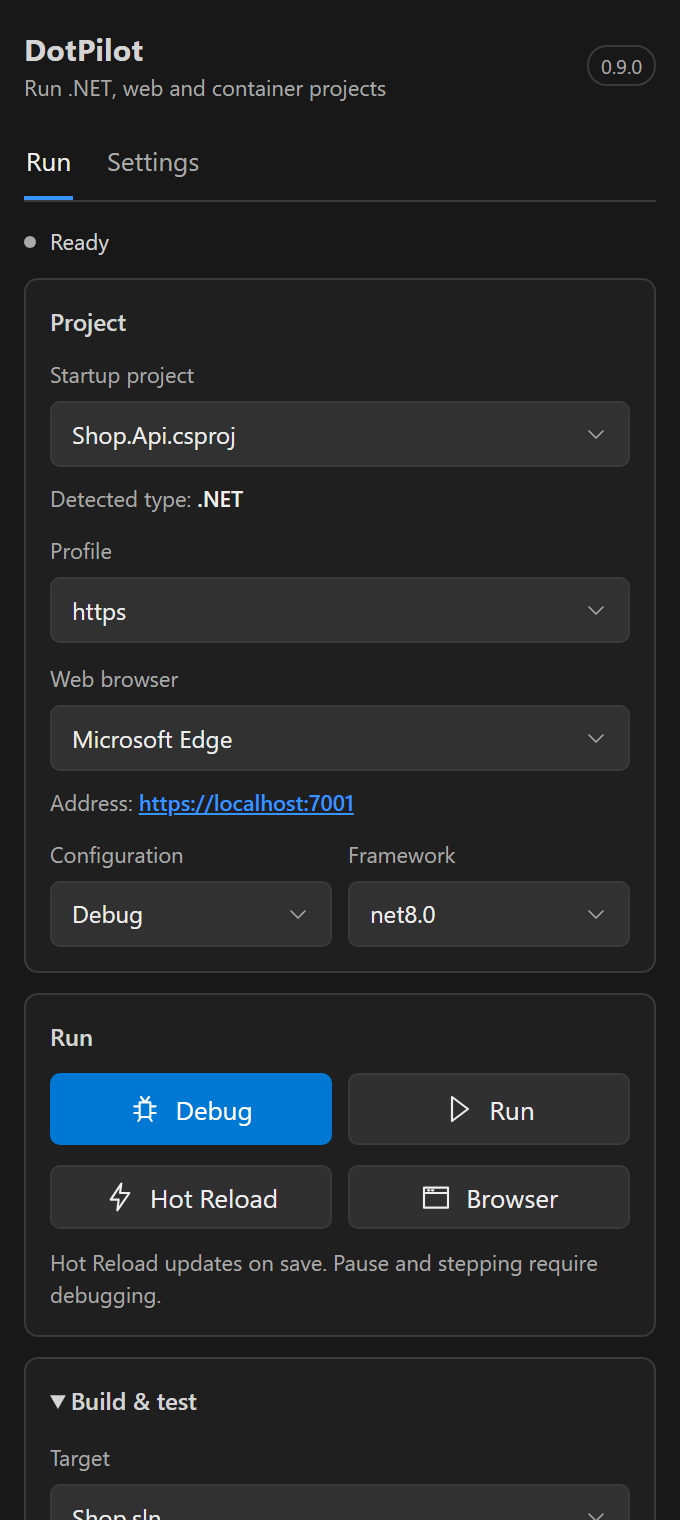
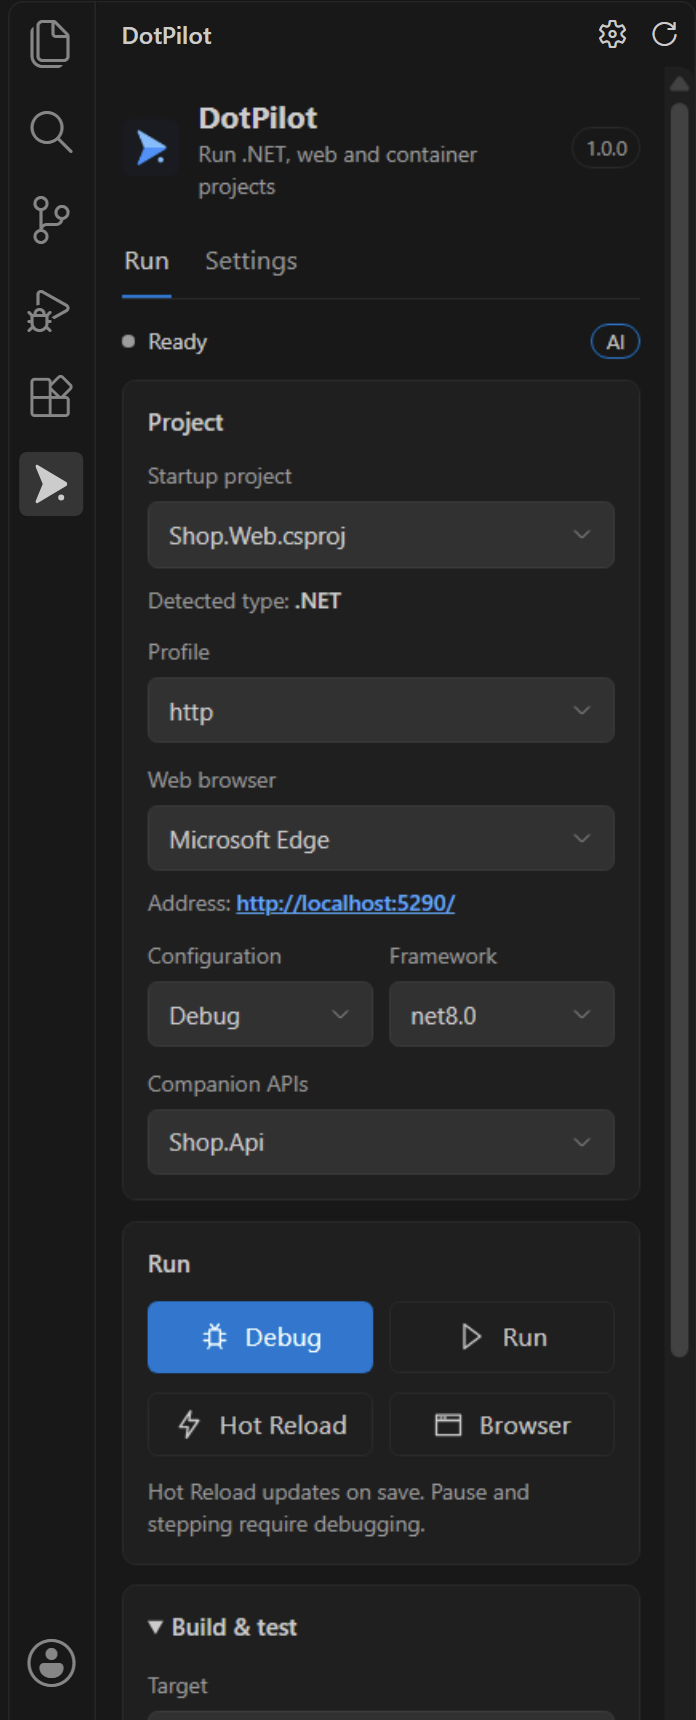
Refresh README screenshots and add the editor toolbar
- Panel screenshots regenerated at the same size (1.0.0 UI, Activity Bar
  icon, companion APIs, AI badge), plus the settings tab.
- New toolbar screenshots: idle, debugging (Pause/Stop) and the open menu.
- test-integration/screenshots.js reproduces them with a real VS Code,
  sample projects and the remote debugging protocol.

diff --git a/test-integration/screenshots.js b/test-integration/screenshots.js
@@ -1,0 +1,237 @@
+'use strict';
+// Genera las capturas de media/screenshots con un VS Code real y proyectos de ejemplo.
+//
+//   node test-integration/screenshots.js
+//
+// Requiere haber corrido antes `npm run test:integration` (deja en caché las extensiones de C#) y el SDK de .NET.
+// Variables: DOTPILOT_VSCODE (ruta de Code.exe), DOTPILOT_SHOTS_OUT (carpeta de salida), DOTPILOT_KEEP=1.
+const fs = require('node:fs');
+const os = require('node:os');
+const path = require('node:path');
+const { runTests } = require('@vscode/test-electron');
+
+const root = path.resolve(__dirname, '..');
+const OUT = process.env.DOTPILOT_SHOTS_OUT || path.join(root, 'media', 'screenshots');
+const PORT = 9333;
+const VIEWPORT = { width: 1280, height: 960 };
+const SCALE = 2;
+const PANEL_HEIGHT = 860;
+const TALL = { width: 1280, height: 1500 };
+
+// Estas variables las pone el VS Code desde el que se lanza este script y rompen un VS Code hijo.
+for (const key of Object.keys(process.env)) {
+  if (key === 'ELECTRON_RUN_AS_NODE' || key.startsWith('VSCODE_')) delete process.env[key];
+}
+
+const write = (file, text) => { fs.mkdirSync(path.dirname(file), { recursive: true }); fs.writeFileSync(file, text); };
+
+function buildWorkspace(workspace, laragon) {
+  const project = (name, port, extra = '') => {
+    write(path.join(workspace, name, `${name}.csproj`), '<Project Sdk="Microsoft.NET.Sdk.Web">\n  <PropertyGroup>\n    <TargetFramework>net8.0</TargetFramework>\n    <Nullable>enable</Nullable>\n    <ImplicitUsings>enable</ImplicitUsings>\n  </PropertyGroup>\n</Project>\n');
+    write(path.join(workspace, name, 'Properties', 'launchSettings.json'), JSON.stringify({ profiles: { http: {
+      commandName: 'Project', launchBrowser: false, applicationUrl: `http://localhost:${port}`, environmentVariables: { ASPNETCORE_ENVIRONMENT: 'Development' }
+    } } }, null, 2));
+    write(path.join(workspace, name, 'Program.cs'), extra);
+  };
+  project('Shop.Api', 5291, ['var builder = WebApplication.CreateBuilder(args);', 'var app = builder.Build();', '', 'app.MapGet("/api/products", () => new[] { "Keyboard", "Mouse" });', '', 'app.Run();', ''].join('\n'));
+  project('Shop.Web', 5290, ['var builder = WebApplication.CreateBuilder(args);', 'var app = builder.Build();', '', 'app.MapGet("/", () => "Shop.Web (uses Shop.Api on :5291)");', '', 'app.Run();', ''].join('\n'));
+  write(path.join(workspace, 'Shop.Web', 'appsettings.json'), JSON.stringify({ ApiBaseUrl: 'http://localhost:5291' }, null, 2));
+
+  write(path.join(workspace, 'web-client', 'package.json'), JSON.stringify({
+    name: 'web-client', private: true, scripts: { dev: 'node server.js' },
+    dependencies: { react: '^18.3.0', 'react-dom': '^18.3.0' }, devDependencies: { vite: '^5.4.0' }
+  }, null, 2));
+  write(path.join(workspace, 'web-client', 'server.js'), [
+    "const http = require('node:http');",
+    "http.createServer((req, res) => res.end('web-client')).listen(5173, '127.0.0.1', () => {",
+    "  console.log('  VITE v5.4.0  ready');",
+    "  console.log('  Local:   http://localhost:5173/');",
+    '});', ''].join('\n'));
+
+  write(path.join(workspace, 'shop', 'index.php'), '<?php echo "Shop";\n');
+  write(path.join(workspace, 'shop', 'composer.json'), JSON.stringify({ name: 'acme/shop' }, null, 2));
+
+  // Laragon de mentira: solo lo que DotPilot lee para ofrecer el perfil Apache (no se inicia nada).
+  const apache = path.join(laragon, 'bin', 'apache', 'httpd-2.4.0-test');
+  for (const dir of [path.join(apache, 'bin'), path.join(apache, 'conf'), path.join(laragon, 'usr'), path.join(laragon, 'etc', 'apache2', 'sites-enabled')]) fs.mkdirSync(dir, { recursive: true });
+  write(path.join(laragon, 'laragon.exe'), '');
+  write(path.join(apache, 'bin', 'httpd.exe'), '');
+  write(path.join(apache, 'conf', 'httpd.conf'), 'Listen 80\nErrorLog "logs/error_log"\n');
+  write(path.join(laragon, 'usr', 'laragon.ini'), `[apache]\nDocumentRoot=${workspace}\n`);
+
+  write(path.join(workspace, '.vscode', 'settings.json'), JSON.stringify({ 'dotpilot.openBrowser': false, 'dotpilot.laragonPath': laragon }, null, 2));
+}
+
+// Cliente mínimo del protocolo de depuración remota de Chromium.
+async function connect(port) {
+  let target;
+  for (let attempt = 0; attempt < 120 && !target; attempt++) {
+    try {
+      const list = await (await fetch(`http://127.0.0.1:${port}/json/list`)).json();
+      target = list.find(item => item.type === 'page' && /workbench/.test(item.url));
+    } catch { /* VS Code aún no abre el puerto */ }
+    if (!target) await new Promise(resolve => setTimeout(resolve, 500));
+  }
+  if (!target) throw new Error('No se pudo conectar a la ventana de VS Code (puerto de depuración remota).');
+  const socket = new WebSocket(target.webSocketDebuggerUrl);
+  await new Promise((resolve, reject) => { socket.onopen = resolve; socket.onerror = reject; });
+  let id = 0;
+  const pending = new Map();
+  socket.onmessage = event => {
+    const message = JSON.parse(event.data);
+    const entry = pending.get(message.id);
+    if (!entry) return;
+    pending.delete(message.id);
+    if (message.error) entry.reject(new Error(`${entry.method}: ${message.error.message}`)); else entry.resolve(message.result);
+  };
+  const send = (method, params = {}) => new Promise((resolve, reject) => {
+    pending.set(++id, { resolve, reject, method });
+    socket.send(JSON.stringify({ id, method, params }));
+  });
+  const evaluate = async expression => {
+    const { result, exceptionDetails } = await send('Runtime.evaluate', { expression, returnByValue: true });
+    if (exceptionDetails) throw new Error(exceptionDetails.exception?.description || exceptionDetails.text);
+    return result.value;
+  };
+  return { send, evaluate, close: () => socket.close() };
+}
+
+const RECT = selector => `(() => { const el = document.querySelector(${JSON.stringify(selector)}); if (!el) return null; const r = el.getBoundingClientRect(); return { x: r.x, y: r.y, width: r.width, height: r.height }; })()`;
+
+async function shoot(cdp, name, rect) {
+  const pad = Math.max(0, Math.round(rect.x * 100) / 100);
+  const { data } = await cdp.send('Page.captureScreenshot', { format: 'png', clip: { x: pad, y: rect.y, width: rect.width, height: rect.height, scale: 1 } });
+  const file = path.join(OUT, `${name}.png`);
+  fs.mkdirSync(OUT, { recursive: true });
+  fs.writeFileSync(file, Buffer.from(data, 'base64'));
+  console.log(`  ${name}.png  ${Math.round(rect.width * SCALE)}×${Math.round(rect.height * SCALE)}`);
+}
+
+async function titleActions(cdp) {
+  const rect = await cdp.evaluate(`(() => {
+    const groups = [...document.querySelectorAll('.part.editor .editor-group-container .title .editor-actions')].filter(el => el.getBoundingClientRect().width > 0);
+    const el = groups[0]; if (!el) return null;
+    const r = el.getBoundingClientRect();
+    const items = [...el.querySelectorAll('a.action-label')];
+    const own = items.find(item => /dotpilot/i.test((item.getAttribute('aria-label') || '') + (item.title || '')));
+    const o = own ? own.getBoundingClientRect() : null;
+    const bar = el.closest('.title').getBoundingClientRect();
+    return { x: r.x, y: r.y, width: r.width, height: r.height, barTop: bar.y, barHeight: bar.height, own: o && { x: o.x + o.width / 2, y: o.y + o.height / 2 } };
+  })()`);
+  if (!rect) throw new Error('No se encontró la barra de acciones del editor.');
+  return rect;
+}
+
+// Aparta el puntero para que no quede ningún resaltado ni descripción emergente en la captura.
+async function parkMouse(cdp) {
+  await cdp.send('Input.dispatchMouseEvent', { type: 'mouseMoved', x: 640, y: 500 });
+  await new Promise(resolve => setTimeout(resolve, 700));
+}
+
+const handlers = {
+  async 'panel-settings'(cdp) {
+    await cdp.send('Emulation.setDeviceMetricsOverride', { ...TALL, deviceScaleFactor: SCALE, mobile: false });
+    await new Promise(resolve => setTimeout(resolve, 900));
+    const side = await cdp.evaluate(RECT('.part.sidebar'));
+    const activity = await cdp.evaluate(RECT('.part.activitybar'));
+    const title = await cdp.evaluate(RECT('.part.titlebar'));
+    const top = title ? title.y + title.height : 0;
+    await shoot(cdp, 'panel-settings', { x: 0, y: top, width: side.x + side.width + (activity ? 0 : 0), height: 1180 });
+    await cdp.send('Emulation.setDeviceMetricsOverride', { ...VIEWPORT, deviceScaleFactor: SCALE, mobile: false });
+  },
+  async 'panel-dotnet'(cdp, layout) { await shoot(cdp, 'panel-dotnet', layout.panel); },
+  async 'panel-node'(cdp, layout) { await shoot(cdp, 'panel-node', layout.panel); },
+  async 'panel-apache'(cdp, layout) { await shoot(cdp, 'panel-apache', layout.panel); },
+  async 'toolbar-idle'(cdp) {
+    await parkMouse(cdp);
+    const bar = await titleActions(cdp);
+    await shoot(cdp, 'toolbar-idle', { x: bar.x - 8, y: bar.barTop, width: bar.width + 16, height: bar.barHeight });
+  },
+  async 'toolbar-running'(cdp) {
+    await parkMouse(cdp);
+    const bar = await titleActions(cdp);
+    await shoot(cdp, 'toolbar-running', { x: bar.x - 8, y: bar.barTop, width: bar.width + 16, height: bar.barHeight });
+  },
+  async 'toolbar-menu'(cdp) {
+    await parkMouse(cdp);
+    const bar = await titleActions(cdp);
+    if (!bar.own) throw new Error('No se encontró el botón de DotPilot en la barra del editor.');
+    for (const type of ['mousePressed', 'mouseReleased']) await cdp.send('Input.dispatchMouseEvent', { type, x: bar.own.x, y: bar.own.y, button: 'left', clickCount: 1 });
+    await new Promise(resolve => setTimeout(resolve, 700));
+    const menu = await cdp.evaluate(RECT('.monaco-menu-container .monaco-menu'));
+    if (!menu) throw new Error('El menú de DotPilot no se abrió.');
+    const left = Math.min(bar.x, menu.x) - 10, right = Math.max(bar.x + bar.width, menu.x + menu.width) + 10;
+    await shoot(cdp, 'toolbar-menu', { x: left, y: bar.barTop, width: right - left, height: menu.y + menu.height - bar.barTop + 10 });
+    for (const type of ['keyDown', 'keyUp']) await cdp.send('Input.dispatchKeyEvent', { type, key: 'Escape', code: 'Escape', windowsVirtualKeyCode: 27 });
+  }
+};
+
+async function panelRect(cdp) {
+  const [activity, side, title] = await Promise.all([RECT('.part.activitybar'), RECT('.part.sidebar'), RECT('.part.titlebar')].map(expression => cdp.evaluate(expression)));
+  if (!activity || !side) throw new Error('No se encontró la barra de actividad o la barra lateral.');
+  const top = title ? title.y + title.height : 0;
+  return { x: 0, y: top, width: side.x + side.width, height: Math.min(PANEL_HEIGHT, VIEWPORT.height - top) };
+}
+
+async function main() {
+  const cache = path.join(os.tmpdir(), 'dotpilot-it-cache', 'csharp', 'extensions');
+  if (!fs.existsSync(cache)) console.warn('Aviso: no hay extensiones en caché (corre npm run test:integration una vez); se continúa sin C#.');
+  const code = process.env.DOTPILOT_VSCODE || [path.join(process.env.LOCALAPPDATA || '', 'Programs', 'Microsoft VS Code', 'Code.exe'), 'C:\\Program Files\\Microsoft VS Code\\Code.exe'].find(fs.existsSync);
+  if (!code) throw new Error('No se encontró VS Code. Define DOTPILOT_VSCODE con la ruta de Code.exe.');
+
+  const work = fs.mkdtempSync(path.join(os.tmpdir(), 'dotpilot-shots-'));
+  const workspace = path.join(work, 'workspace');
+  const laragon = path.join(work, 'laragon');
+  const userData = path.join(work, 'user-data');
+  const marks = path.join(work, 'marks');
+  fs.mkdirSync(marks, { recursive: true });
+  buildWorkspace(workspace, laragon);
+  write(path.join(userData, 'User', 'settings.json'), JSON.stringify({
+    'telemetry.telemetryLevel': 'off', 'update.mode': 'none', 'extensions.autoUpdate': false, 'extensions.ignoreRecommendations': true,
+    'workbench.startupEditor': 'none', 'window.restoreWindows': 'none', 'security.workspace.trust.enabled': false,
+    'workbench.tips.enabled': false, 'workbench.secondarySideBar.defaultVisibility': 'hidden', 'chat.disableAIFeatures': true,
+    'window.commandCenter': false, 'workbench.layoutControl.enabled': false, 'editor.minimap.enabled': false,
+    'workbench.colorTheme': 'Default Dark Modern', 'dotpilot.assistantsEnabled': true, 'dotpilot.showEditorToolbar': true
+  }, null, 2));
+
+  console.log('Generando capturas en', OUT);
+  const finished = runTests({
+    vscodeExecutablePath: code,
+    extensionDevelopmentPath: root,
+    extensionTestsPath: path.join(__dirname, 'screenshots-suite.js'),
+    launchArgs: [workspace, `--user-data-dir=${userData}`, ...(fs.existsSync(cache) ? [`--extensions-dir=${cache}`] : []), '--disable-gpu', `--remote-debugging-port=${PORT}`],
+    extensionTestsEnv: { DOTPILOT_HOME: path.join(work, 'dotpilot-home'), DOTPILOT_SHOTS_DIR: marks, DOTPILOT_SHOTS_WORKSPACE: workspace }
+  }).catch(error => ({ error }));
+
+  let failure;
+  try {
+    const cdp = await connect(PORT);
+    await cdp.send('Emulation.setDeviceMetricsOverride', { ...VIEWPORT, deviceScaleFactor: SCALE, mobile: false });
+    const seen = new Set();
+    let over = false;
+    finished.then(() => { over = true; });
+    while (!over) {
+      for (const file of fs.readdirSync(marks).filter(name => name.endsWith('.ready'))) {
+        const name = file.slice(0, -'.ready'.length);
+        if (seen.has(name)) continue;
+        seen.add(name);
+        if (name !== 'end') {
+          if (!handlers[name]) throw new Error(`Escena desconocida: ${name}`);
+          await handlers[name](cdp, { panel: await panelRect(cdp) });
+        }
+        write(path.join(marks, `${name}.done`), '');
+      }
+      if (seen.has('end')) break;
+      await new Promise(resolve => setTimeout(resolve, 200));
+    }
+    cdp.close();
+  } catch (error) { failure = error; }
+  const result = await finished;
+  if (!process.env.DOTPILOT_KEEP) { try { fs.rmSync(work, { recursive: true, force: true, maxRetries: 6, retryDelay: 500 }); } catch { /* cortesía */ } }
+  else console.log('Carpeta temporal conservada:', work);
+  if (failure) throw failure;
+  if (result && result.error) throw result.error;
+  console.log('Listo.');
+}
+
+main().catch(error => { console.error(error); process.exit(1); });

diff --git a/test-integration/screenshots-suite.js b/test-integration/screenshots-suite.js
@@ -1,0 +1,88 @@
+'use strict';
+// Parte de screenshots.js que corre DENTRO de VS Code: prepara cada escena y espera a que el lanzador
+// (que habla con la ventana por el protocolo de depuración remota) tome la captura.
+const fs = require('node:fs');
+const path = require('node:path');
+const vscode = require('vscode');
+const { getController, waitFor, portOpen, sleep } = require('./suite/helpers');
+
+const dir = process.env.DOTPILOT_SHOTS_DIR;
+const workspace = process.env.DOTPILOT_SHOTS_WORKSPACE;
+const at = (...parts) => path.join(workspace, ...parts);
+
+// Avisa al lanzador y espera su `.done`: la captura se toma mientras esta escena está en pantalla.
+async function scene(name) {
+  await sleep(900);
+  fs.writeFileSync(path.join(dir, `${name}.ready`), '');
+  await waitFor(() => fs.existsSync(path.join(dir, `${name}.done`)), { timeout: 60000, message: `la captura "${name}"` });
+}
+
+async function showPanel(controller) {
+  await vscode.commands.executeCommand('workbench.view.extension.dotpilot');
+  await waitFor(() => controller.webviewReady && controller.view?.visible, { timeout: 30000, message: 'que el panel esté visible' });
+  controller.lastViewState = undefined;
+  controller.render();
+}
+
+async function run() {
+  const controller = await getController();
+  await sleep(2500);
+  const same = (left, right) => path.normalize(left).toLowerCase() === path.normalize(right).toLowerCase();
+  const find = file => controller.projects.find(uri => same(uri.fsPath, at(...file.split('/'))));
+  await waitFor(() => controller.projects.length >= 2 && controller.apps.length >= 2, { timeout: 60000, message: 'que se detecten los proyectos' });
+  await vscode.commands.executeCommand('workbench.action.closePanel');
+  await vscode.commands.executeCommand('workbench.action.closeAuxiliaryBar');
+  // Con un editor abierto aparece la barra de acciones del editor.
+  const document = await vscode.workspace.openTextDocument(at('Shop.Web', 'Program.cs'));
+  await vscode.window.showTextDocument(document, { preview: false });
+
+  // 1) Proyecto .NET con su API complementaria, en reposo.
+  const web = find('Shop.Web/Shop.Web.csproj');
+  const api = find('Shop.Api/Shop.Api.csproj');
+  await controller.applyProject(web, undefined);
+  await controller.applyProfile('http');
+  await controller.saveCompanions([{ project: api.fsPath, profile: 'http' }]);
+  controller.selectedFramework = 'net8.0';
+  await showPanel(controller);
+  await scene('panel-dotnet');
+  await scene('toolbar-idle');
+  await scene('toolbar-menu');
+
+  // 2) Depurando: la API corre sin depurador y la barra de acciones muestra Pausar y Detener.
+  if (vscode.extensions.getExtension('ms-dotnettools.csharp')) {
+    await vscode.commands.executeCommand('dotpilot.debug');
+    await waitFor(async () => controller.session && await portOpen(5291) && await portOpen(5290), { timeout: 150000, message: 'que la API y el sitio estén en marcha' });
+  } else {
+    await vscode.commands.executeCommand('dotpilot.run');
+    await waitFor(async () => await portOpen(5291) && await portOpen(5290), { timeout: 150000, message: 'que la API y el sitio estén en marcha' });
+  }
+  await scene('toolbar-running');
+  await vscode.commands.executeCommand('dotpilot.stop');
+  await waitFor(() => !controller.active() && !controller.busy, { timeout: 30000, message: 'que termine la ejecución' });
+
+  // 3) Node.js (React + Vite) en ejecución.
+  const node = controller.apps.find(app => app.kind === 'node');
+  await controller.applyProject(node.uri, node);
+  await sleep(1500);
+  await controller.invoke('run');
+  await waitFor(async () => await portOpen(5173) && controller.listeningUrl, { timeout: 60000, message: `que el servidor Node.js escuche (${controller.result || 'sin mensaje'})` });
+  await showPanel(controller);
+  await scene('panel-node');
+  await vscode.commands.executeCommand('dotpilot.stop');
+  await waitFor(() => !controller.active() && !controller.busy, { timeout: 30000, message: 'que termine la ejecución' });
+
+  // 4) PHP servido por el Apache de Laragon.
+  const php = controller.apps.find(app => app.kind === 'php');
+  await controller.applyProject(php.uri, php);
+  await controller.applyProfile(php.profiles[0].name);
+  await showPanel(controller);
+  await scene('panel-apache');
+
+  // 5) Ajustes.
+  await controller.showSettings();
+  await sleep(600);
+  await scene('panel-settings');
+  fs.writeFileSync(path.join(dir, 'end.ready'), '');
+}
+
+module.exports = { run };

diff --git a/README.es.md b/README.es.md
@@ -6,7 +6,11 @@ DotPilot detecta los proyectos ejecutables de tu espacio de trabajo, te deja ele
 
 [English](README.md) · [Guía detallada](docs/GUIA.md) · [Cambios](CHANGELOG.md)
 
-<img src="media/screenshots/panel-dotnet.png" alt="Panel de DotPilot con un proyecto .NET" width="280"> <img src="media/screenshots/panel-node.png" alt="Panel de DotPilot ejecutando una app React + Vite" width="280"> <img src="media/screenshots/panel-apache.png" alt="Panel de DotPilot ejecutando un sitio PHP con el Apache de Laragon" width="280">
+<img src="media/screenshots/panel-dotnet.png" alt="Panel de DotPilot con un proyecto .NET y su API complementaria" width="280"> <img src="media/screenshots/panel-node.png" alt="Panel de DotPilot ejecutando una app React + Vite" width="280"> <img src="media/screenshots/panel-apache.png" alt="Panel de DotPilot con un sitio PHP y el perfil Apache (Laragon)" width="280">
+
+La barra del editor: el menú de DotPilot y Ejecutar, la misma barra al depurar (Pausar y Detener) y el menú abierto.
+
+<img src="media/screenshots/toolbar-idle.png" alt="Barra del editor con el menú de DotPilot y el botón Ejecutar" width="124"> <img src="media/screenshots/toolbar-running.png" alt="Barra del editor al depurar, con Pausar y Detener" width="150"> <img src="media/screenshots/toolbar-menu.png" alt="El menú de DotPilot en la barra del editor" width="419">
 
 ## Qué hace
 

diff --git a/README.md b/README.md
@@ -6,7 +6,11 @@ DotPilot detects the runnable projects in your workspace, lets you pick a projec
 
 [Español](README.es.md) · [Detailed guide](docs/GUIA.md) · [Changelog](CHANGELOG.md)
 
-<img src="media/screenshots/panel-dotnet.png" alt="DotPilot panel with a .NET project" width="280"> <img src="media/screenshots/panel-node.png" alt="DotPilot panel running a React + Vite app" width="280"> <img src="media/screenshots/panel-apache.png" alt="DotPilot panel running a PHP site through Laragon's Apache" width="280">
+<img src="media/screenshots/panel-dotnet.png" alt="DotPilot panel with a .NET project and its companion API" width="280"> <img src="media/screenshots/panel-node.png" alt="DotPilot panel running a React + Vite app" width="280"> <img src="media/screenshots/panel-apache.png" alt="DotPilot panel with a PHP site and the Apache (Laragon) profile" width="280">
+
+The editor toolbar: the DotPilot menu and Run, the same toolbar while debugging (Pause and Stop), and the menu open.
+
+<img src="media/screenshots/toolbar-idle.png" alt="Editor toolbar with the DotPilot menu and the Run button" width="124"> <img src="media/screenshots/toolbar-running.png" alt="Editor toolbar while debugging, with Pause and Stop" width="150"> <img src="media/screenshots/toolbar-menu.png" alt="The DotPilot menu in the editor toolbar" width="419">
 
 ## What it does
 

diff --git a/test-integration/README.md b/test-integration/README.md
@@ -105,3 +105,11 @@ Al **Pausar** una aplicación ASP.NET (que tiene varios hilos), DotPilot abre el
 | `fixtures/NodeSample/`, `PhpSample/`, `PythonSample/` | Servidores mínimos de Node.js, PHP y Python |
 
 El `Controller` de DotPilot se obtiene de `extension.exports` (lo devuelve `activate()`), por lo que las pruebas observan el estado real sin cambiar código de producción.
+
+## Capturas de pantalla del README
+
+```
+node test-integration/screenshots.js
+```
+
+Abre un VS Code real con proyectos de ejemplo (.NET con su API complementaria, React + Vite y PHP con el perfil Apache), conduce DotPilot por sus comandos y toma las capturas de `media/screenshots/` por el protocolo de depuración remota (ventana de 1280 px, escala 2×, tema oscuro). Todas las capturas del panel salen del mismo tamaño. Requiere haber corrido antes `npm run test:integration` (deja en caché las extensiones de C#) y el SDK de .NET; `DOTPILOT_SHOTS_OUT` cambia la carpeta de salida.
